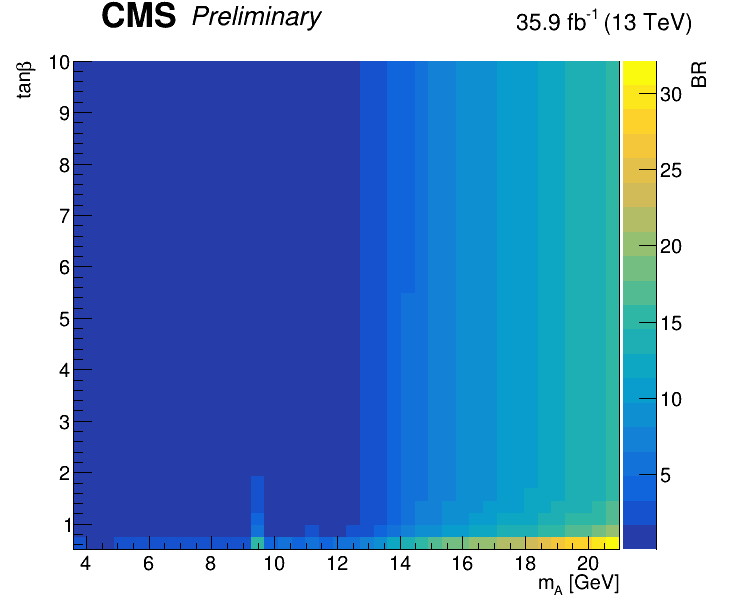
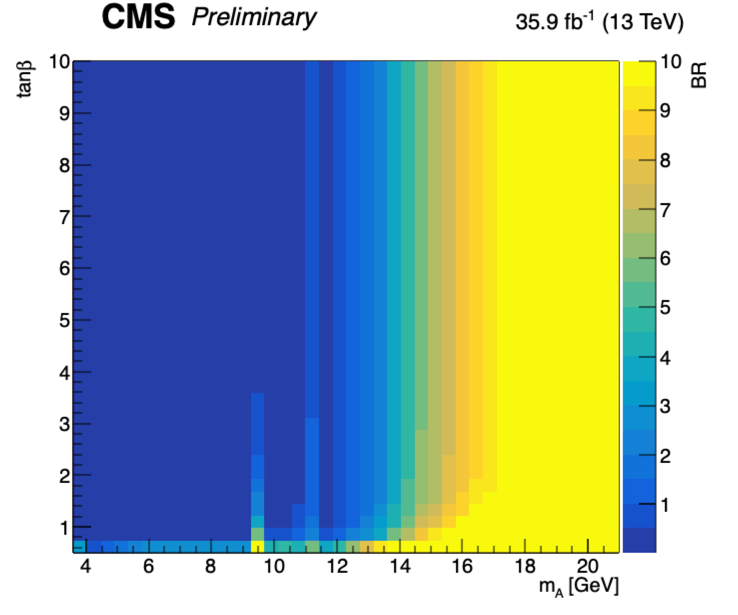
scale of z axis changed

diff --git a/model_dependent.py b/model_dependent.py
@@ -122,6 +122,8 @@ if __name__ == "__main__":
     #graph_obs.GetXaxis().SetTitle("m_{A} [GeV]")  # Set x-axis label as m_A with unit GeV
     #graph_obs.GetYaxis().SetTitle("tan#beta")    # Set y-axis label as tan(beta)
     #graph_obs.GetZaxis().SetTitle("BR")
+    #graph_obs.SetMinimum(0.001)
+    graph_obs.SetMaximum(10) #for model 2
     graph_obs.Draw("COLZ")
     canv.Modified()
     canv.Update()
@@ -135,7 +137,7 @@ if __name__ == "__main__":
 	    lumiBlurb=add_lumi_runI()
     lumiBlurb.Draw("same")
     canv.Update() 
-    canv.SaveAs('3D_plot_BR_vs_Mass_vs_tanBeta_obs_model1.png')
+    canv.SaveAs('3D_plot_BR_vs_Mass_vs_tanBeta_obs_model4.png')
 
     # Create graph for expected data
     graph_exp = ROOT.TGraph2D(len(x_mmtt_boosted_exp_total), x_mmtt_boosted_exp_total, tan_beta, z_exp_array)
@@ -143,6 +145,8 @@ if __name__ == "__main__":
     #graph_exp.GetXaxis().SetTitle("m_{A} [GeV]")  # Se t x-axis label as m_A with unit GeV
     #graph_exp.GetYaxis().SetTitle("tan#beta")    # Set y-axis label as tan(beta)
     #graph_exp.GetZaxis().SetTitle("BR") 
+    #graph_exp.SetMinimum(0.001)
+    graph_exp.SetMaximum(10)
     graph_exp.Draw("COLZ")
     canv.Modified()
     canv.Update()
@@ -156,4 +160,4 @@ if __name__ == "__main__":
 	    lumiBlurb=add_lumi_runI()
     lumiBlurb.Draw("same")
     canv.Update() 
-    canv.SaveAs('3D_plot_BR_vs_Mass_vs_tanBeta_exp_model1.png')
+    canv.SaveAs('3D_plot_BR_vs_Mass_vs_tanBeta_exp_model4.png')
